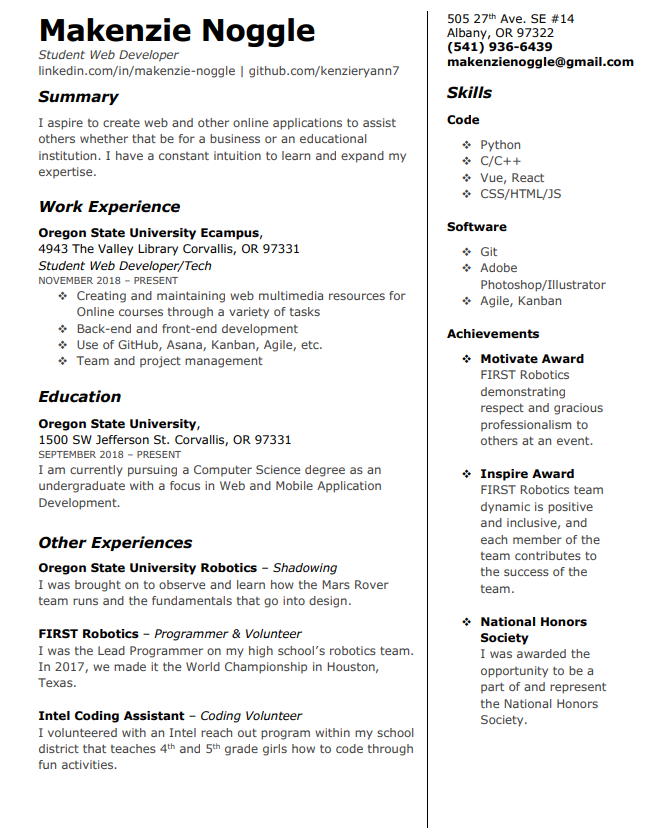
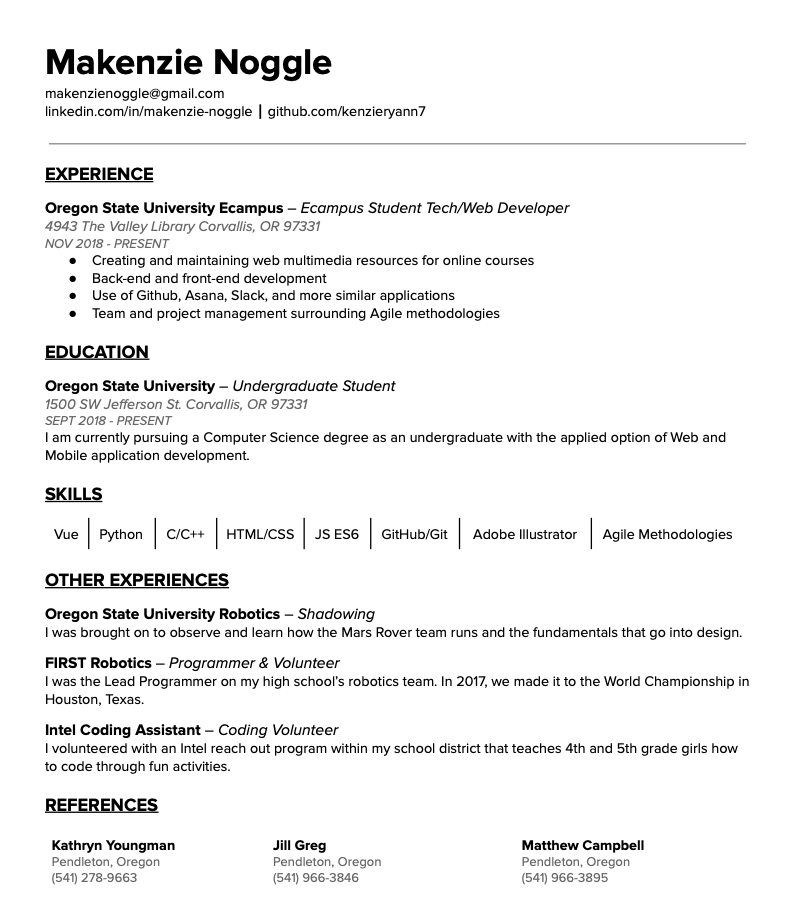
replaced old resume, added new content for personal projects

Changed region(s): [[0.0306, 0.0, 0.9801, 0.9676], [0.6432, 0.9052, 0.827, 0.9676]]

diff --git a/HOME.md b/HOME.md
@@ -46,24 +46,18 @@ My involvement with FIRST Robotics has also brought an abundance of volunteering
 ### Atlas
 
 Atlas is a timeline map interactive where a user can submit an event, giving a description and media if any. Once submitted, it will populate in the list sidebar and when selected it will highlight that particular region on the map.
-<br>
-**[Github Repo](https://github.com/kenzieryann7/atlas)**
 
 ![Atlas Visual](media/atlas.gif)
 
 ### Phylogenetic Tree
 
 This interactive allows the user to edit/insert new nodes into the phylogenetic tree. Where the tree shows the evolutionary relationships between biological species and organisms based on physical and genetic characteristics. This application takes advantage of the **[D3.js](https://d3js.org/)** Javascript Library.
-<br>
-**[Github Repo](https://github.com/kenzieryann7/phylogeny-tree)**
 
 ![Phylogenetic Tree Visual](media/tree.gif)
 
 ### Glossary
 
 Glossary is a simple interactive where the user may enter terms and definitions. An admin, such as an instructor, can approve, edit, or remove entries. These entries may be exported via Google Sheets if the admin would like to save all entries.
-<br>
-**[Github Repo](https://github.com/kenzieryann7/glossary)**
 
 ![Glossary Visual](media/glossary.gif)
 
@@ -77,11 +71,20 @@ This application was created with Vue and Bootstrap 5. I originally created this
 
 ![Pokédex Database Visual](media/pokedex.gif)
 
+### Pulsar
+An incremental idle game played through your web browser. Still currently in development.
+
+**Spaceships created using Adobe Illustrator**
+![Spaceship Showcase](media/ship-showcase.png)
+
 <h3>*MORE COMING SOON*</h3>
 
 ## Résumé
 
-![Résumé](media/resume.PNG)
+![Résumé](media/resume.png)
+<a href="media/resume.png" download>
+  Download Résumé
+</a>
 
 ## Contact Me
 
